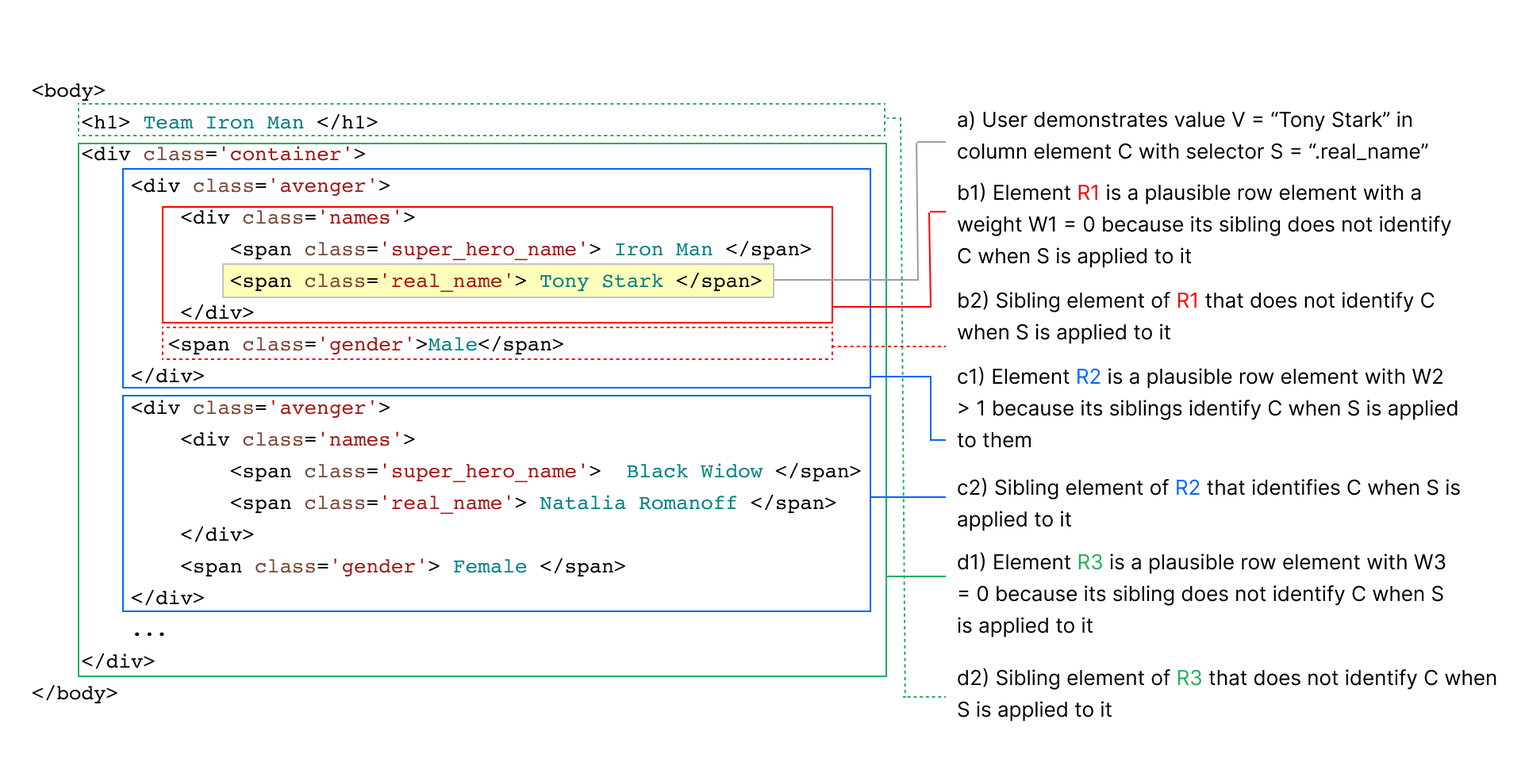
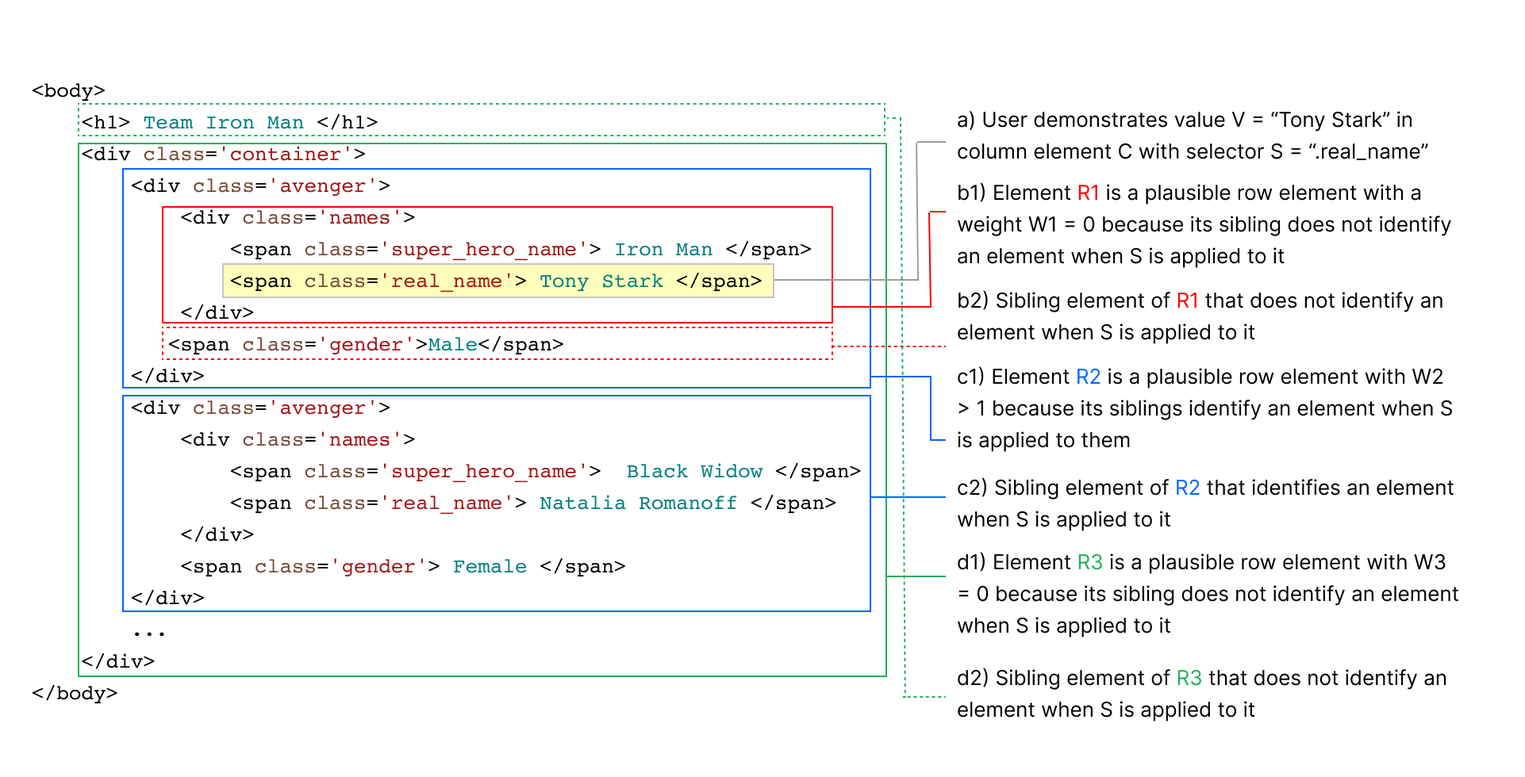
General edit pass, plus changes to intro (add Formality Considered Harmful reference)

diff --git a/paper.md b/paper.md
@@ -11,11 +11,11 @@ secPrefix:
     - "Section"
     - "Sections"
 abstract: |
-	Tools that enable end users to customize websites typically use a two-stage workflow: first, users extract data into a structured form, second, they use that data to customize or augment the original webpage in some way. This two-stage workflow poses a usability barrier because it requires users to make upfront decisions about what data to extract, rather than allowing them to incrementally extract data as they customize.
+  Tools that enable end-users to customize websites typically use a two-stage workflow: first, users extract data into a structured form, second, they use that data to augment the original website in some way. This two-stage workflow poses a usability barrier because it requires users to make upfront decisions about what data to extract, rather than allowing them to incrementally extract data as they augment it.
 
-	In this paper, we present a new, unified interaction model for web customization that encompasses both extraction and augmentation. The key idea is to provide users with a spreadsheet-like formula language that can be used for both data extraction and augmentation. We also provide a programming-by-demonstration (PBD) interface where users can create data extraction formulas by clicking on elements in the web page.  This model allows users to naturally and iteratively move between extraction and augmentation.
-	
-	To concretely illustrate our interaction model, we have implemented it as a browser extension called Joker. Through case studies of using Joker ourselves, we demonstrate that Joker can perform extraction and augmentation on many real-world websites. We also present a formative user study with five participants, which showed that people with a wide range of technical backgrounds can use Joker to customize websites, and also revealed some interesting limitations of our approach. Finally, we present a heuristic evaluation of our design using the Cognitive Dimensions framework, exploring why it promotes a more fluid web customization experience.
+  In this paper, we present a new, unified interaction model for web customization that encompasses both extraction and augmentation. The key idea is to provide users with a spreadsheet-like formula language that can be used for both data extraction and augmentation. We also provide a programming-by-demonstration (PBD) interface through which users can create data extraction formulas by clicking on elements in the website. This model allows users to naturally and iteratively move between extraction and augmentation.
+  
+  To illustrate our unified interaction model for web customization, we have implemented it as a browser extension called Joker. Through case studies of using Joker ourselves, we show that Joker can be used to customize many real-world websites. We also present a formative user study with five participants, which showed that people with a wide range of technical backgrounds can use Joker to customize websites, and also revealed some interesting limitations of our approach. Finally, we present a heuristic evaluation of our design using the Cognitive Dimensions framework, exploring why it promotes a more fluid web customization experience.
 
 ---
 
@@ -23,19 +23,19 @@ abstract: |
 
 Many websites on the internet do not meet the exact needs of all of their users. Because of this, millions of people use browser extensions and userscripts [@zotero-224; @2021f] to customize websites. However, these tools only allow for pre-built customizations. End-user web customization systems like Sifter [@huynh2006], Vegemite [@lin2009] and Wildcard [@litt2020; @litt2020b] provide a more flexible approach, allowing anyone to create bespoke customizations without traditional programming.
 
-These tools each provide different useful mechanisms for end user customization, but they share a common design limitation: they have a rigid separation between two stages of the web customization process. First, in the _extraction_ or _scraping_ phase, the user gets structured data from the webpage UI into a tabular format. Second, in the _augmentation_ phase, users can perform customizations like adding new columns derived from the data, or sorting/filtering the table. For example, in Vegemite, a user can extract a list of addresses from a housing catalog, and then augment the data by computing a walkability score for each address.
+These tools each provide different useful mechanisms for end-user customization, but they share a common design limitation: they have a rigid separation between the two stages of the web customization process. First, in the _extraction_ or _scraping_ phase, users get structured data from the website into a tabular format. Second, in the _augmentation_ phase, users perform augmentations like adding new columns derived from the data, or sorting the table. For example, in Vegemite, a user can extract a list of addresses from a housing catalog, and then augment the data by computing a walkability score for each address.
 
-This separation between extraction and augmentation turns out to be an important barrier to usability. A user study [@lin2009] of Vegemite wrote that “it was confusing to use one technique to create the initial table, and another technique to add information to a new column.” The creators of Sifter similarly reported [@huynh2006] that “the necessity for extracting data before augmentation could take place was poorly understood, if understood at all.” In Wildcard, end-users cannot augment a website unless a programmer has written and shared extraction code for that website in Javascript. In general, this interaction model assumes a sequential workflow where users first extract all the data they need, and then perform all their desired customizations. In reality, however, users prefer a more iterative process where extraction and augmentation are interleaved (as demonstrated by these prior user studies and our own study in this work).
+This separation between extraction and augmentation turns out to be an important barrier to usability. A user study [@lin2009] of Vegemite wrote that “it was confusing to use one technique to create the initial table, and another technique to add information to a new column.” The creators of Sifter similarly reported [@huynh2006] that “the necessity for extracting data before augmentation could take place was poorly understood, if understood at all.” In Wildcard, end-users cannot even augment a website unless a programmer has written and shared extraction code for that website in Javascript. This interaction model _requires_ a sequential workflow in which users first extract all the data they need, and then perform all their desired augmentations. In a paper titled "Formality Considered Harmful" [@shipman1999], Shipman et al discuss how imposing such formalisms can make using interactive systems difficult as can be seen from the mentioned Sifter and Vegemite user studies.
 
-In this paper, we present a new approach to web customization that combines extraction and augmentation with into a unified interaction model. Our key idea is to develop a domain specific language (DSL) that encompasses both extraction and augmentation tasks, along with a programming-by-demonstration (PBD) interface that makes it easy for end-users to program in the language. This unified interaction model allows end-users to seamlessly move between extraction and augmentation, resulting in a more iterative workflow that matches the natural progression of real-world web customization.
+In this paper, we present a new approach to web customization that combines extraction and augmentation with into a unified interaction model. Our key idea is to develop a domain specific language (DSL) that encompasses both extraction and augmentation tasks, along with a programming-by-demonstration (PBD) interface that makes it easy for end-users to program in the language. This unified interaction model allows end-users to seamlessly move between extraction and augmentation, resulting in a more iterative and free-from workflow for web customization.
 
 To illustrate our unified interaction model for web customization, we have built a web extension called Joker, which is an extension of Wildcard. The original Wildcard system adds a spreadsheet-like table to a website and establishes a bidirectional synchronization between it and the table. This allows users to customize a website through interactions with the table like sorting, as well as augmenting the website with new data using a formula language. However, as mentioned earlier, all of Wildcard’s augmentation capabilities are separate from its extraction capabilities, which can only be performed via programming in Javascript.
 
 Joker adds two key features to Wildcard:
 
-**A Unified Formula Language**: Wildcard’s formula language only supported primitive values like strings and numbers. Joker extends this language by introducing Document Object Model (DOM) elements as a new type of value, and adding a new set of formulas for performing operations on them. This includes querying elements with Cascading Stylesheet Selectors (CSS) selectors and traversing the DOM. With this approach, a single formula language is used to express both extraction and augmentation tasks, even within a single formula expression.
+**A Unified Formula Language For Extraction & Augmentation**: Wildcard’s formula language only supported primitive values like strings and numbers. Joker extends this language by introducing Document Object Model (DOM) elements as a new type of value, and adding a new set of formulas for performing operations on them. This includes querying elements with Cascading Stylesheet Selectors (CSS) selectors and traversing the DOM. With this approach, a single formula language is used to express both extraction and augmentation tasks, even within a single formula expression.
 
-**A PBD Interface**: Directly writing extraction formulas can be challenging for end-users, so Joker also implements a PBD interface that uses demonstrations to synthesize extraction formulas. Demonstrations have been used to synthesize data extraction programs in a number of prior systems. However, a key property of our design is that the extraction program synthesized from the demonstration is made visible to the user as a spreadsheet formula that can be edited and executed using pure functional semantics.
+**A PBD Interface For Creating Extraction Formulas**: Directly writing extraction formulas can be challenging for end-users, so Joker also implements a PBD interface that uses demonstrations to synthesize extraction formulas. Demonstrations have been used to synthesize data extraction programs in a number of prior systems. However, a key property of our design is that the extraction program synthesized from the demonstration is made visible to the user as a spreadsheet formula that can be edited and executed using pure functional semantics.
 
 [@sec:examples] describes a concrete scenario, showing how Joker enables a user to complete a useful customization task. In [@sec:implementation], we elaborate on the implementation of our formula language, as well as the algorithm used by our PBD interface. Then, in [@sec:design-principles], we describe some of the broader design principles that Joker embodies and discuss their applications in other contexts.
 
@@ -44,7 +44,7 @@ We have performed three evaluations of our approach, presented in [@sec:evaluati
 Joker relates to existing work not only in end-user web customization, but also in end-user web scraping and program synthesis which we discuss in [@sec:related-worker]. Finally, we discuss opportunities for future work in [@sec:conclusion].
 
 # Example Usage Scenario {#sec:examples}
-To concretely illustrate the user experience of our tool, we present a scenario of customizing eBay, a popular online marketplace. The goal of the user, Jen, is to filter out search results that are sponsored, i.e. product listings that a seller paid to promote. On the webpage, sponsored listings are marked with a "Sponsored" label that Jen can scrape, then she can sort the scraped labels to move all sponsored listings to the bottom of the page. @fig:ebay shows accompanying screenshots.
+To illustrate the user experience of Joker, we present a scenario of customizing eBay, a popular online marketplace. The goal of the user, Jen, is to filter out search results that are sponsored, i.e. product listings that a seller paid to promote. On the website, sponsored listings are marked with a "Sponsored" label that Jen can extract, then she can sort the extracted labels to move all sponsored listings to the bottom of the page. @fig:ebay shows accompanying screenshots.
 
 <div class="pdf-only">
 \begin{figure*}
@@ -55,38 +55,38 @@ To concretely illustrate the user experience of our tool, we present a scenario 
 
 *Scraping Names by Demonstration* (@fig:ebay Part A): Jen starts the data extraction process by clicking a context menu item within the eBay.com page. Then, she hovers over the name of the product listing to indicate that she would like to extract it into the table. As she hovers, Joker provides two kinds of live feedback. First, it highlights the names of all the listings on the page, to indicate how it has generalized Jen's intent based on her demonstration with a single example listing. Second, the table is also filled with data, giving a preview of how the extracted data would look. Once she is happy with the preview of the extraction, Jen clicks to confirm her intent, and the table becomes filled with one row per listing.
 
-When she clicks on a cell in the table, the _formula bar_ at the top of the table displays the underlying formula that is producing the data, just as in a spreadsheet interface:
+When she clicks on a cell in the table, the _formula bar_ at the top of the table displays the underlying formula that is extracting the data, just as in a spreadsheet interface:
 
 `QuerySelector(rowElement, "h3.s-item__title")`
 
-This formula describes the scraping logic generated by the demonstration. For each listing, the system has extracted a DOM element representing the listing, represented by the special system variable `rowElement`. The `QuerySelector` function runs a CSS query selector within the context of each listing and returns the first child element that matches the selector.
+This formula describes the scraping logic generated by the demonstration. For each listing, the system has extracted a DOM element representing the listing, represented by the special system variable `rowElement`. The `QuerySelector` function runs a CSS query selector within the DOM element corresponding to each listing and returns the first child element that matches the selector.
 
 In this case, the demonstration successfully extracted all the desired data, so there's no need for Jen to edit the formula. Next, she will try performing some extractions which require her to more directly edit formulas.
 
-*Scraping Sponsored Labels with Formulas* (@fig:ebay Part B): Jen would like to sort the table based on whether the listing contains the "Sponsored" label, so she decides to scrape the text contents of the “Sponsored” label element into a new column. She tries to scrape the label using demonstration, but she finds she is unable to scrape more than one letter of the word at a time.
+*Scraping Sponsored Labels with Formulas* (@fig:ebay Part B): Jen would like to sort the table based on whether the listing contains the "Sponsored" label, so she decides to extract the text contents of the “Sponsored” label element into a new column. She tries to extract the label using demonstration, but she finds she is unable to extract more than one letter of the word at a time.
 
-To diagnose the issue, Jen inspects the page’s source code using her browser's developer tools. Jen discovers that eBay's developers have inserted invisible letters into word “Sponsored” (possibly to obfuscate against ad blockers). Each letter is in its own HTML element, and the inserted letters are rendered invisible by CSS. Scraping by demonstration does not work in this case because Jen wants the element that contains the whole word, but the system is giving her the leaf-node elements (individual letters) instead.
+To diagnose the issue, Jen inspects the website’s source code using her browser's developer tools. Jen discovers that eBay's developers have inserted invisible letters into the word “Sponsored” (possibly to obfuscate against ad blockers). Each letter is in its own element, and the inserted letters are rendered invisible by CSS. Extracting by demonstration does not work in this case because Jen wants the element that contains the whole word, but the system is giving her the leaf-node elements (individual letters) instead.
 
 Jen sees in the source code that the all of the letters of the "Sponsored" label, both visible and invisible, are contained in a single ancestor element with the CSS selector `"div.s-item__title--tagblock"`. Thus, she is able to scrape the full word by writing a query selector formula with that CSS selector. She can copy the formula from the previous column as a template.
 
-This formula populates the column with the text content of the "Sponsored" element, which she can now use for string manipulation and sorting. By writing a formula, Jen is able to overcome the limitations of scraping by demonstration. The mixed methods of scraping exemplify our tool's support of **prodirect manipulation**. 
+This formula populates the column with the text content of the "Sponsored" element, which she can now use for string manipulation and sorting. By writing a formula, Jen is able to overcome the limitations of extracting by demonstration. The mixed methods of extraction exemplify our tool's support of **prodirect manipulation**. 
 
-*Filtering Sponsored Results* (@fig:ebay Part C): The query selector that Jen just wrote returns all of the text within each of the targeted "Sponsored" elements, including any invisible letters. eBay's web design is that sponsored listings have a visible "Sponsored" label with invisible inserted letters, and non-sponsored listings have an invisible "Sponsored" label. Thus, for sponsored listings, the query returns garbled text (e.g. "JSp3onMsoV3rXNYFedZB"), and for non-sponsored listings, the query returns "Sponsored". Jen identifies this correlation by scrolling through the scraped data in the column and comparing them to what she sees on the web page. Then, in a new column, Jen writes a formula that returns whether or not the previous column’s text includes the word “Sponsored.” Finally, she sorts this column of booleans, which, by bidirectional synchronization, also sorts the listings on the web page. As a result of this sort, non-sponsored results are all listed before any sponsored results, which achieves Jen's goal of browsing without seeing sponsored results. This customization is possible because Joker provides a **unified user model**, where scraping and customization are performed in conjunction.
+*Filtering Sponsored Results* (@fig:ebay Part C): The query selector that Jen just wrote returns all of the text within each of the targeted "Sponsored" elements, including any invisible letters. eBay's web design is that sponsored listings have a visible "Sponsored" label with invisible inserted letters, and non-sponsored listings have an invisible "Sponsored" label. Thus, for sponsored listings, the query returns garbled text (e.g. "JSp3onMsoV3rXNYFedZB"), and for non-sponsored listings, the query returns "Sponsored". Jen identifies this correlation by scrolling through the scraped data in the column and comparing them to what she sees on the web page. Then, in a new column, Jen writes a formula that returns whether or not the previous column’s text includes the word “Sponsored.” Finally, she sorts this column of booleans, which, by bidirectional synchronization, also sorts the listings on the website. As a result of this sort, non-sponsored results are all listed before any sponsored results, which achieves Jen's goal of browsing without seeing sponsored results. This customization is possible because Joker provides **unified user interaction**, where extraction and augmentation are performed in conjunction.
 
-In this way, Jen is able to use our system to customize the eBay website, without needing to learn how to program in JavaScript and without even leaving the webpage. Our model of customization by unified demonstration and formulas is flexible enough to support a wide range of other useful modifications and web programming proficiency levels, and we present a greater variety of use cases in [@sec:evaluation].
+In this way, Jen is able to use Joker to customize the eBay website, without needing to learn how to program in JavaScript and without even leaving the website. Joker's unified interaction model for web customization is flexible enough to support a wide range of other useful modifications and web programming proficiency levels, and we present a greater variety of use cases in [@sec:evaluation].
 
 
 # System Implementation {#sec:implementation}
 
-In this section, describe Joker's formula language include a table of currently available formulas. Then, we outline the *wrapper induction* [@kushmerick2000] algorithm that Joker's PBD interface uses to synthesize the row and column selectors presented in formulas. 
+In this section, we describe Joker's formula language and include a table of currently available formulas. Then, we outline the *wrapper induction* [@kushmerick2000] algorithm that Joker's PBD interface uses to synthesize the row and column selectors presented in formulas. 
 
 ## Web Scraping Formulas
 
 Joker's formula language is similar to that of visual database query systems like SIEUFERD [@bakke2016] and Airtable [@2021f]. Formulas automatically apply across an entire column of data and reference other column names instead of values in specific rows. The language currently consists of the formulas shown in Figure X. Below, we highlight the formulas related to extraction:
 
-### QuerySelector(this, selector)
+### QuerySelector(rowElement, selector)
 
-This formula is used to represent column value extractions. `this` is a special keyword that references a hidden column containing the DOM elements that correspond to the rows of the data set. `selector` is the synthesized CSS selector that specifies the column element. 
+This formula is used to represent column value extractions. `rowElement` is a special keyword that references a hidden column containing the DOM elements that correspond to the rows of the data set. `selector` is the synthesized CSS selector that specifies the column element. 
 
 ### GetAttribute(element, attribute)
 
@@ -104,7 +104,7 @@ Wrapper induction is the task of generalizing from a few examples of data to a s
 
 Given a demonstrated column value, Joker uses the following criteria to determine the row element:
 
-*Plausibility*. An element `R` is a plausible row element if 1) it is in the parent path of the column element `C` containing the demonstrated column value `V` and 2) the CSS selector $S_{column}$ of element `C` only identifies `C` when applied to `R`.
+*Plausibility*. An element `R` is a plausible row element if 1) it is in the parent path of the column element `C` containing the demonstrated column value `V` and 2) the CSS selector `S` of element `C` only identifies `C` when applied to `R`.
 
 *Weight*. A row element `R` has a weight `W` equal to the number of its siblings for which the CSS selector `S` of column element `C` only identifies a single element. This ensures that we favor row elements that will result in the highest number of rows in the resulting data table.
 
@@ -135,27 +135,26 @@ Given a column element, Joker synthesizes its column selector using the followin
 
 *Weight*. $S_{column}$ has a weight equal to the number of classes it consists of. As before, we favor selectors with lower weights.
 
-*Best*. $S_{column}$` is the best if it is plausible and there is no other selector that has a lower weight than it has.
+*Best*. $S_{column}$ is the best if it is plausible and there is no other selector that has a lower weight than it has.
 
 # Design Principles {#sec:design-principles}
 
-Below, we describe three design principles that Joker embodies. We did not invent these principles but rather combined them in a novel manner for the domain of web scraping and web customization.
-
+Below, we describe three existing design principles that Joker embodies in order to characterize its design.
 ## Unified User Interaction
 
-Prior to this work, extraction and augmentation in web customization systems [@huynh2006; @lin2009] were divided: all extractions had to be performed prior to augmentations in a separate phase. Joker represents extraction and augmentation using the a single formula language. Because of this, both can be performed in a single phase, with users being able to interleave the two as desired. This makes the process of customization more incremental which is vital for complex tasks. We can see this in the Ebay example in [@sec:examples]: when the user scrapes a listing's "Sponsored" label, they observe that non-sponsored listings have an invisible "Sponsored" label while sponsored listings have a visible "Sponsored" label that consists of a garbled form "Sponsored". Because of Joker's unified user interaction, the user receives the results of scraping in the table and can immediately write a customization formula to validate this hypothesis. Without the unified interaction, the user would have to scrape all the desired columns to see all their values before ever getting to notice the pattern and validate their hypothesis.
+Prior to this work, extraction and augmentation in web customization systems [@huynh2006; @lin2009] were divided: all extractions had to be performed prior to augmentations in a separate phase. Joker represents extraction and augmentation using the a single spreadsheet formula language. Because of this, both can be performed in a single phase, with users being able to interleave the two as desired. This makes the process of customization more iterative and free-form. We can see this in the Ebay example in [@sec:examples]: when the user extracts a listing's "Sponsored" label, they observe that non-sponsored listings have an invisible "Sponsored" label while sponsored listings have a visible "Sponsored" label that consists of a garbled form "Sponsored". Because of Joker's unified user interaction, the user receives the results of scraping in the table and can immediately write an augmentation formula to validate this hypothesis. Without the unified interaction, the user would have to extract all the desired columns to see all their values before ever getting to notice the pattern and validate their hypothesis.
 
 ## Functional Reactive Programming
 
 Functional reactive programming (FRP) utilizes functions to specify operations in a reactive programming paradigm. It has seen wide adoption in end-user programming through implementations such as spreadsheet formula languages (Microsoft Excel & Google Sheets) and formula languages for low-code programming environments (Microsoft Power Fx [@2021g], Google AppSheet [@2021h], Airtable [@2021f], Glide [@2021a], Coda [@2021c] & Gneiss [@chang2014]).
 
-Joker's use of FRP makes it easier for users to program in its formula language. With traditional programming, the eBay example in [@sec:examples] in which a user extracts every listing's "Sponsored" label would be much more complicated. The user would need to understand programming constructs such as state, variables, looping and data flow in order to write a program to scrape the label. In Joker, all a user needs to specify is the CSS selector that identifies the element containing the label. Joker takes care of managing state, variables, looping and data flow!
+Joker's use of FRP makes it easier for users to program in its spreadsheet formula language. With traditional programming, the eBay example in [@sec:examples] in which a user extracts every listing's "Sponsored" label would be much more complicated. The user would need to understand programming constructs such as state, variables, looping and data flow in order to write a program to extract the label. In Joker, all a user needs to specify is the CSS selector that identifies the element containing the label. Joker takes care of managing state, variables, looping and data flow!
 
 A key limitation of this approach is that users need to understand how CSS selectors work in order to perform extractions. Because the formula language utilizes pure functional semantics, users can iterate on CSS selectors as many times as they need to without having to worry about side effects. This makes the authoring of CSS selectors more accessible but more work remains.
 
 ## Prodirect Manipulation
 
-*Prodirect Manipulation* is a term coined by Ravi Chugh in a position paper [@chugh2016a] in which he advocates for “novel software systems that tightly couple programmatic and direct manipulation.” This principles embodies Joker's formula language and PBD interface which combine the ease of use of PBD and the expressiveness of traditional programming.
+*Prodirect Manipulation* is a term coined by Ravi Chugh in a position paper [@chugh2016a] in which he advocates for “novel software systems that tightly couple programmatic and direct manipulation.” This principle embodies Joker's formula language and PBD interface which combine the ease of use of PBD and the expressiveness of traditional programming.
 
 In the eBay example in [@sec:examples], we show how a user can take advantage of Joker's prodirect manipulation interaction to extract the "Sponsored" label of a listing when PBD is not enough. The user can either directly edit the synthesized formula or author one from scratch to achieve the task. This is significant because the resulting customization to sort the listings by whether they are sponsored or not would not otherwise be possible.
 
@@ -163,11 +162,11 @@ We can see a similar prodirect manipulation interaction model in Sketch-N-Sketch
 
 # Evaluation {#sec:evaluation}
 
-In this section, we evaluate Joker with suite of case studies that show its capabilities and limitations, a small user study and a Cognitive Dimensions of Notion analysis [@blackwell2001]. The case studies list websites that can be customized by Joker and those that cannot be. The user study provides insights on which aspects of Joker work well and which don't. The Cognitive Dimensions of Notion analysis compares Joker's design to related approaches and interaction standards.
+In this section, we evaluate Joker with a suite of case studies that show its capabilities and limitations, a formative user study and a Cognitive Dimensions of Notion analysis [@blackwell2001]. The case studies list websites that can be customized by Joker and those that cannot be. The user study provides insights on which aspects of Joker work well and which don't. The Cognitive Dimensions of Notion analysis compares Joker's design to related approaches and interaction standards.
 
-## Example Gallery
+## Case Studies
 
-Following a method used to evaluate visualizations through a diverse gallery of examples [@ren2018], our first evaluation of Joker provides an example gallery of popular websites on which Joker can be used for web customization and on which it can not be used. For the websites on which Joker can be used, we provide the sequence of interactions needed to achieve the customizations. For the websites on which Joker cannot be used, we provide an explanation.
+Following a method used to evaluate visualizations through a diverse gallery of examples [@ren2018], our first evaluation of Joker provides an case studies of popular websites on which Joker can be used for web customization and on which it fails. For the websites on which Joker can be used, we provide the sequence of interactions needed to achieve the customizations. For the websites on which Joker fails, we provide an explanation.
 
 ### Websites Joker Can Be Used On
 
@@ -178,7 +177,7 @@ We have also found Joker to be useful for filtering based on text inputs. For ex
 Additionally, we have used Joker to augment web pages with external information. For example, Joker can augment Reddit's old user interface, which has a list of headlines with links to articles and images. A user can first scrape the headline elements into column A by demonstration. The user can then extract the link into column B with the formula `GetAttribute(A, "href")`. Then, the user can write the formula `ReadTimeInSeconds(B)` that calls an API that returns the links' read times. Similarly, the user can write the formula `Visited(B)` that returns whether that link has been visited in the user's browser history. The user can also scrape elements such as the number of comments and the time of posting and sort by these values. We have performed similar customizations on websites such as ABC news.
 
 ### Limitations
-Joker's unified model of demonstrations and formulas is most effective on webpages with data that is presented as many similarly-structured HTML elements. However, certain websites have designs that make it difficult for Joker to scrape data. These are some of those designs:
+Joker is most effective on websites with data that is presented as many similarly-structured HTML elements. However, certain websites have designs that make it difficult for Joker to scrape data. These are some of those designs:
 
 - *Multiple row elements.* The layout of some web pages has multiple types of row as siblings that contain different children elements. For example, the news aggregator website HackerNews has a page design that alternates between rows containing a title and rows containing supplementary data (e.g. number of likes and the time of posting). Because Joker only chooses a single row selector, when scraping by demonstration, Joker will only select one of the types of rows, and elements in the other types of rows will not be able to be scraped.
 - *Infinite scroll.* Some web pages have an "infinite scroll" feature that adds new entries to the page when a user scrolls to the bottom. Joker's table will only contain elements that were rendered when the table was first created. Additionally, for websites with many elements, such as Facebook, Joker might run out of memory while running its wrapper induction algorithm and crash the page.
@@ -186,7 +185,7 @@ Joker's unified model of demonstrations and formulas is most effective on webpag
 
 ## User Study
 
-Our second evaluation of Joker is a user study that was focused on providing insights on barriers to its usability.
+Our second evaluation of Joker is a formative user study that was focused on providing insights on barriers to its usability.
 
 ### Participants
 
@@ -202,7 +201,7 @@ The participants completed 7 tasks across 2 websites towards the goal of web cus
 
 ### Protocol
 
-All participants attempted all the tasks. We started each session with a description of Joker and provided a brief tutorial of its main features on a website not used for the tasks. There was no time limit for tasks but we provided hints whenever a participant had exhausted the knowledge available to them.
+All participants attempted all the tasks. We started each session with a description of Joker and provided a brief tutorial of its main features on a website not used for the tasks. There was no time limit for tasks but we provided hints (such as suggestions to read formula documentation or open the browser tools to determine why demonstrations were not sufficient) whenever a participant had exhausted the knowledge available to them.
 
 ### Results
 
@@ -218,7 +217,7 @@ All participants were able to complete all the tasks with the help of hints when
 
 One participant, upon seeing our tutorial on extraction by demonstration, said "that's like black magic." Tasks that involved augmentation formulas took longer than those that involved demonstrations but this was mostly related to the formula documentation not providing enough usage information. More work is needed to show users what exactly a given formula does. When asked how they would accomplish the tasks without Joker, the participant with limited programming experience responded with "I don't think I would know how to do it." That Joker enabled them to achieve such a complex task is very promising!
 
-Participants that were familiar with web development were able to take advantage of the extraction formulas. This included the participants that had limited web extraction experience and suggests that the pure functional semantics and use of CSS selectors for identifying elements to extract data from makes the task easier. As predicted, participants not familiar with web development didn't have the required background to understand how CSS selectors work. This highlights the need to further explore how extraction formulas can be made more accessible to end-users.
+Participants that were familiar with web development were able to take advantage of the extraction formulas. This included the participants that had limited web scraping experience and suggests that the pure functional semantics and use of CSS selectors for identifying elements to extract data from makes the task easier. As predicted, participants not familiar with web development didn't have the required background to understand how CSS selectors work. This highlights the need to further explore how extraction formulas can be made more accessible to end-users.
 
 All participants had trouble figuring out which column the demonstrated values would be scraped into, especially when demonstrations where interleaved with use of formulas. This points to the need for the switch between demonstrating and using formulas to be more tightly coupled visually. For extraction formulas, the most notable issue was the lack of feedback about why demonstrations were not sufficient to extract a value. As a result, users wasted time trying to demonstrate in various ways instead of thinking about editing the synthesized formula to achieve the task. In order for PBD to effectively enhance our formula language, users need to receive feedback that the formula synthesized from a demonstration is not sufficient to extract the desired data.
 
